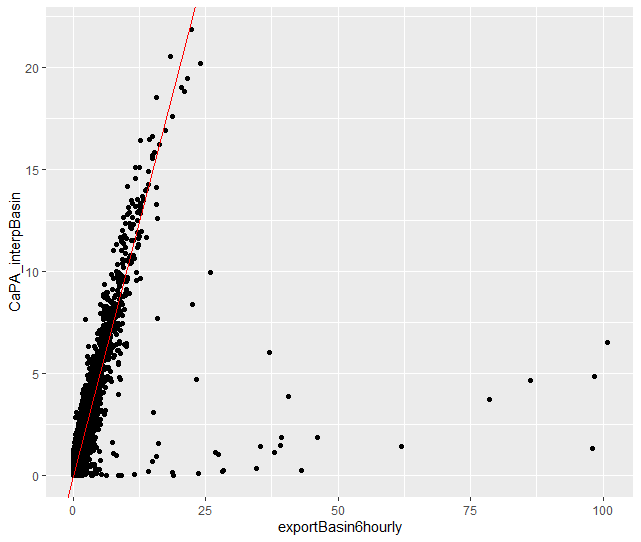
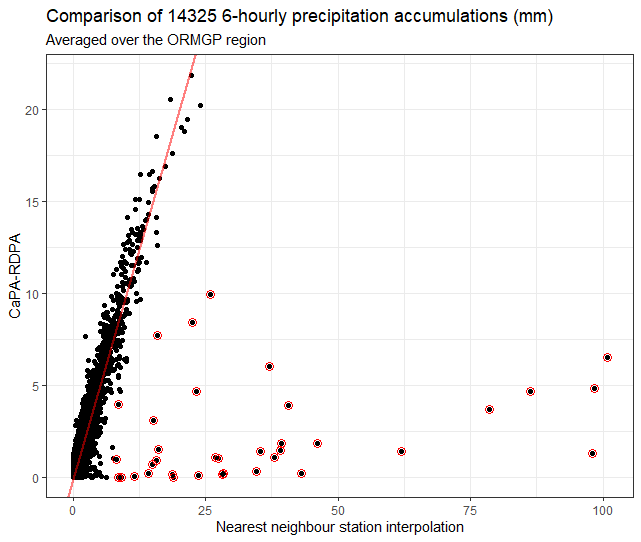
updated DAS scatter

diff --git a/fews/climate-interpolation.md b/fews/climate-interpolation.md
@@ -100,9 +100,9 @@ The use of these distributed products at the ORMGP are to provide an idea of pre
 
 So, in addition to comparing point stations (which themselves as known to be ±5% in error--Legates and DeLiberty, 1993--and [many don't record trace amounts](https://www.canada.ca/en/environment-climate-change/services/weather-general-tools-resources/frequently-asked-questions.html) less than 0.2 mm per hour), one should also be comparing how a field interpolated for point stations compare with CaPA-RDPA.
 
-Below shows a figure comparing CaPA vs. interpolated station data over the past 20 years of daily accumulations on days where precipitation was observed. Station data are interpolated using the nearest neighbour approach. Both fields are then averaged over the 30,000 km² ORMGP jurisdiction.
+Below shows a figure comparing CaPA vs. interpolated station data over the past 10 years of 6-hourly accumulations at time when precipitation was observed by either dataset. Station data are interpolated using the nearest neighbour approach. Both fields are then averaged over the 30,000 km² ORMGP jurisdiction.
 
-It's clear that for the most part, the 2 approaches are in agreement to within ±2 mm per day. Major discrepancies occur on days where heavy rainfall events are measured at individual stations, and the interpolation scheme over exaggerates the extent of the intense storm, which in southern Ontario tends to be convective (i.e., small extent) in nature. This is the problem we are trying to overcome as it is apparent that inadequate estimates of spatial distribution can be a greater source of error than the accuracy of any particular CaPA-RDPA pixel.
+It's clear that for the most part, the 2 approaches are in agreement to within ±2 mm per day; 1:1 line shown in red. Major discrepancies (circled red) occur when heavy rainfall events are measured at individual stations and the interpolation scheme over exaggerates the extent of the intense storm, which in southern Ontario tends to be convective (i.e., small extent) in nature. This is the problem we are trying to overcome as it appears that inadequate estimates of spatial distributions can be a greater source of error than the accuracy of any particular CaPA-RDPA pixel.
 
 ![](fig/h6-station-vs-rdpa.png)
 
